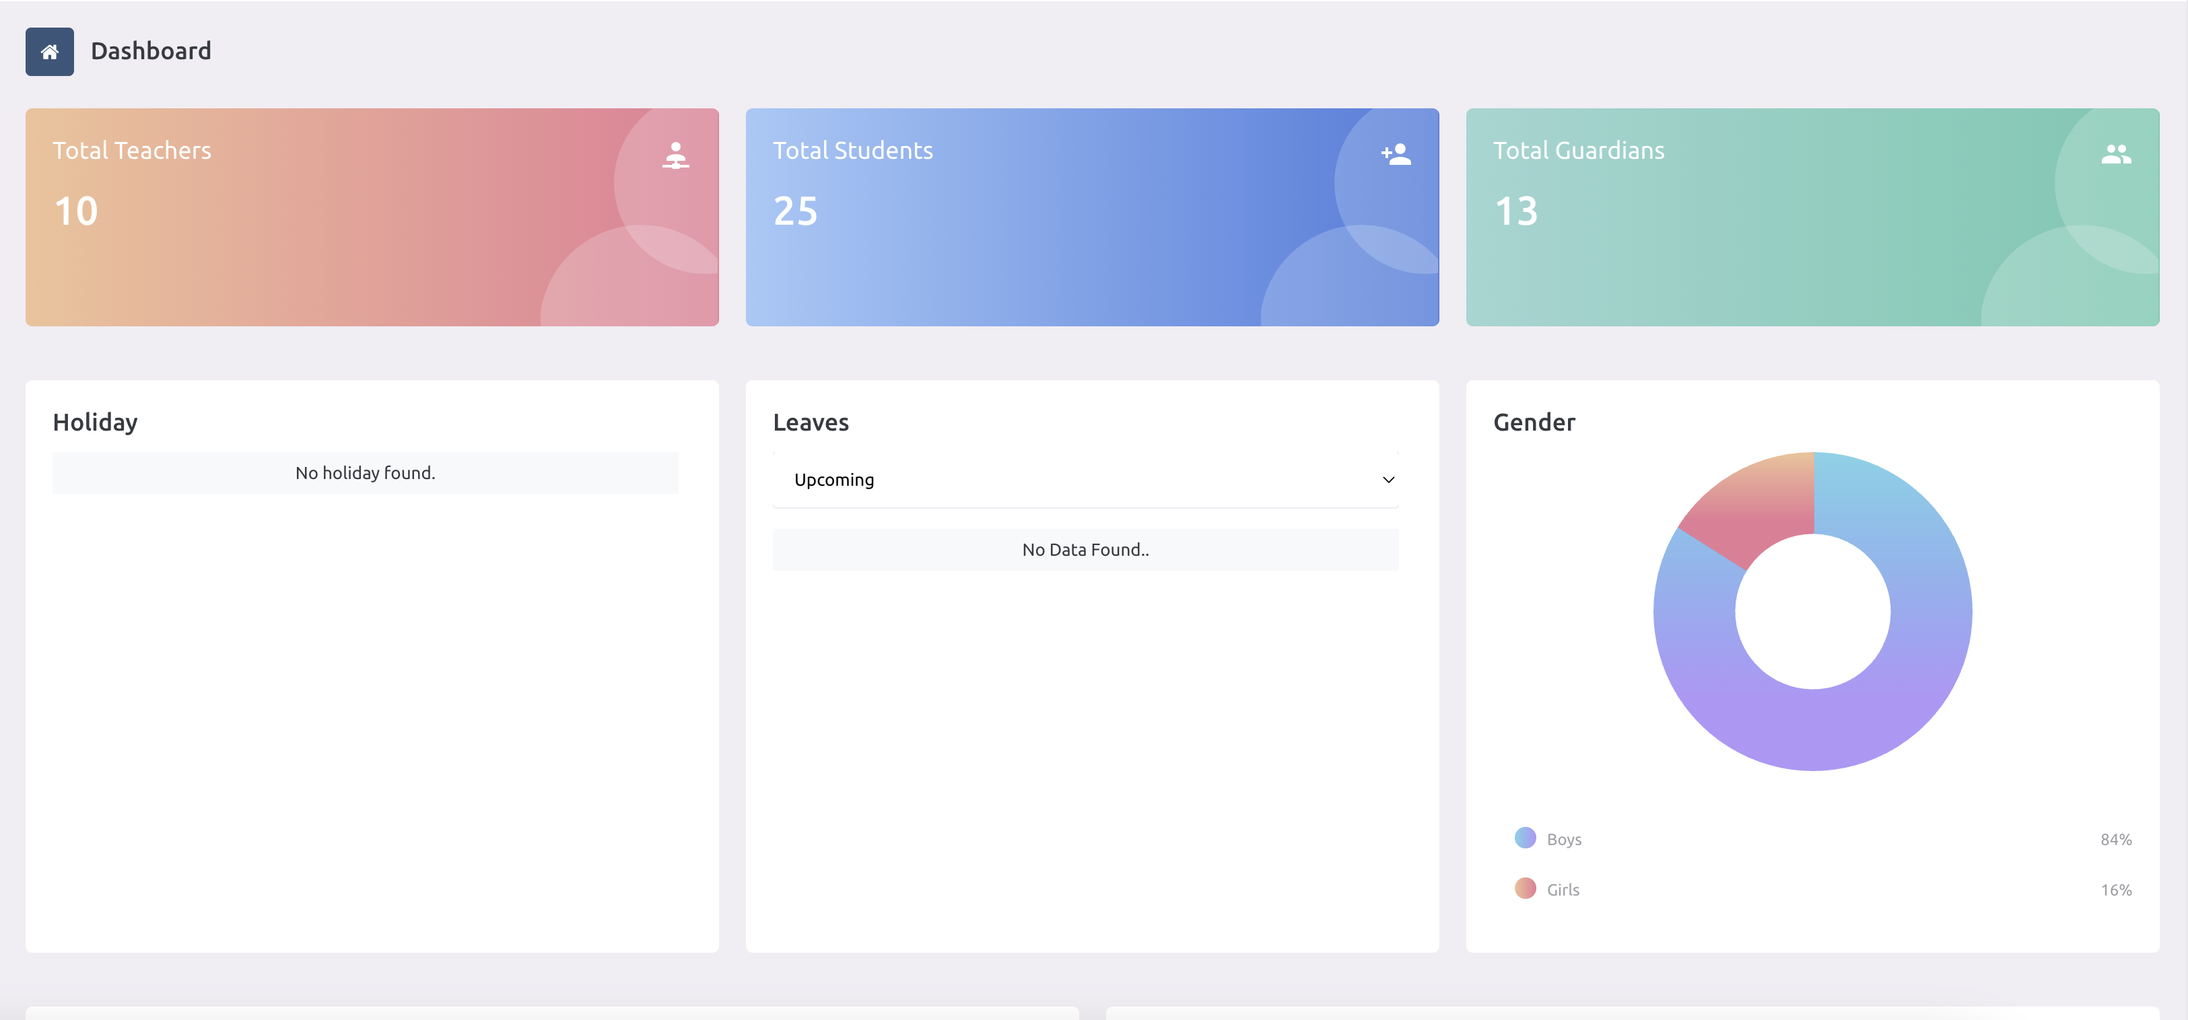
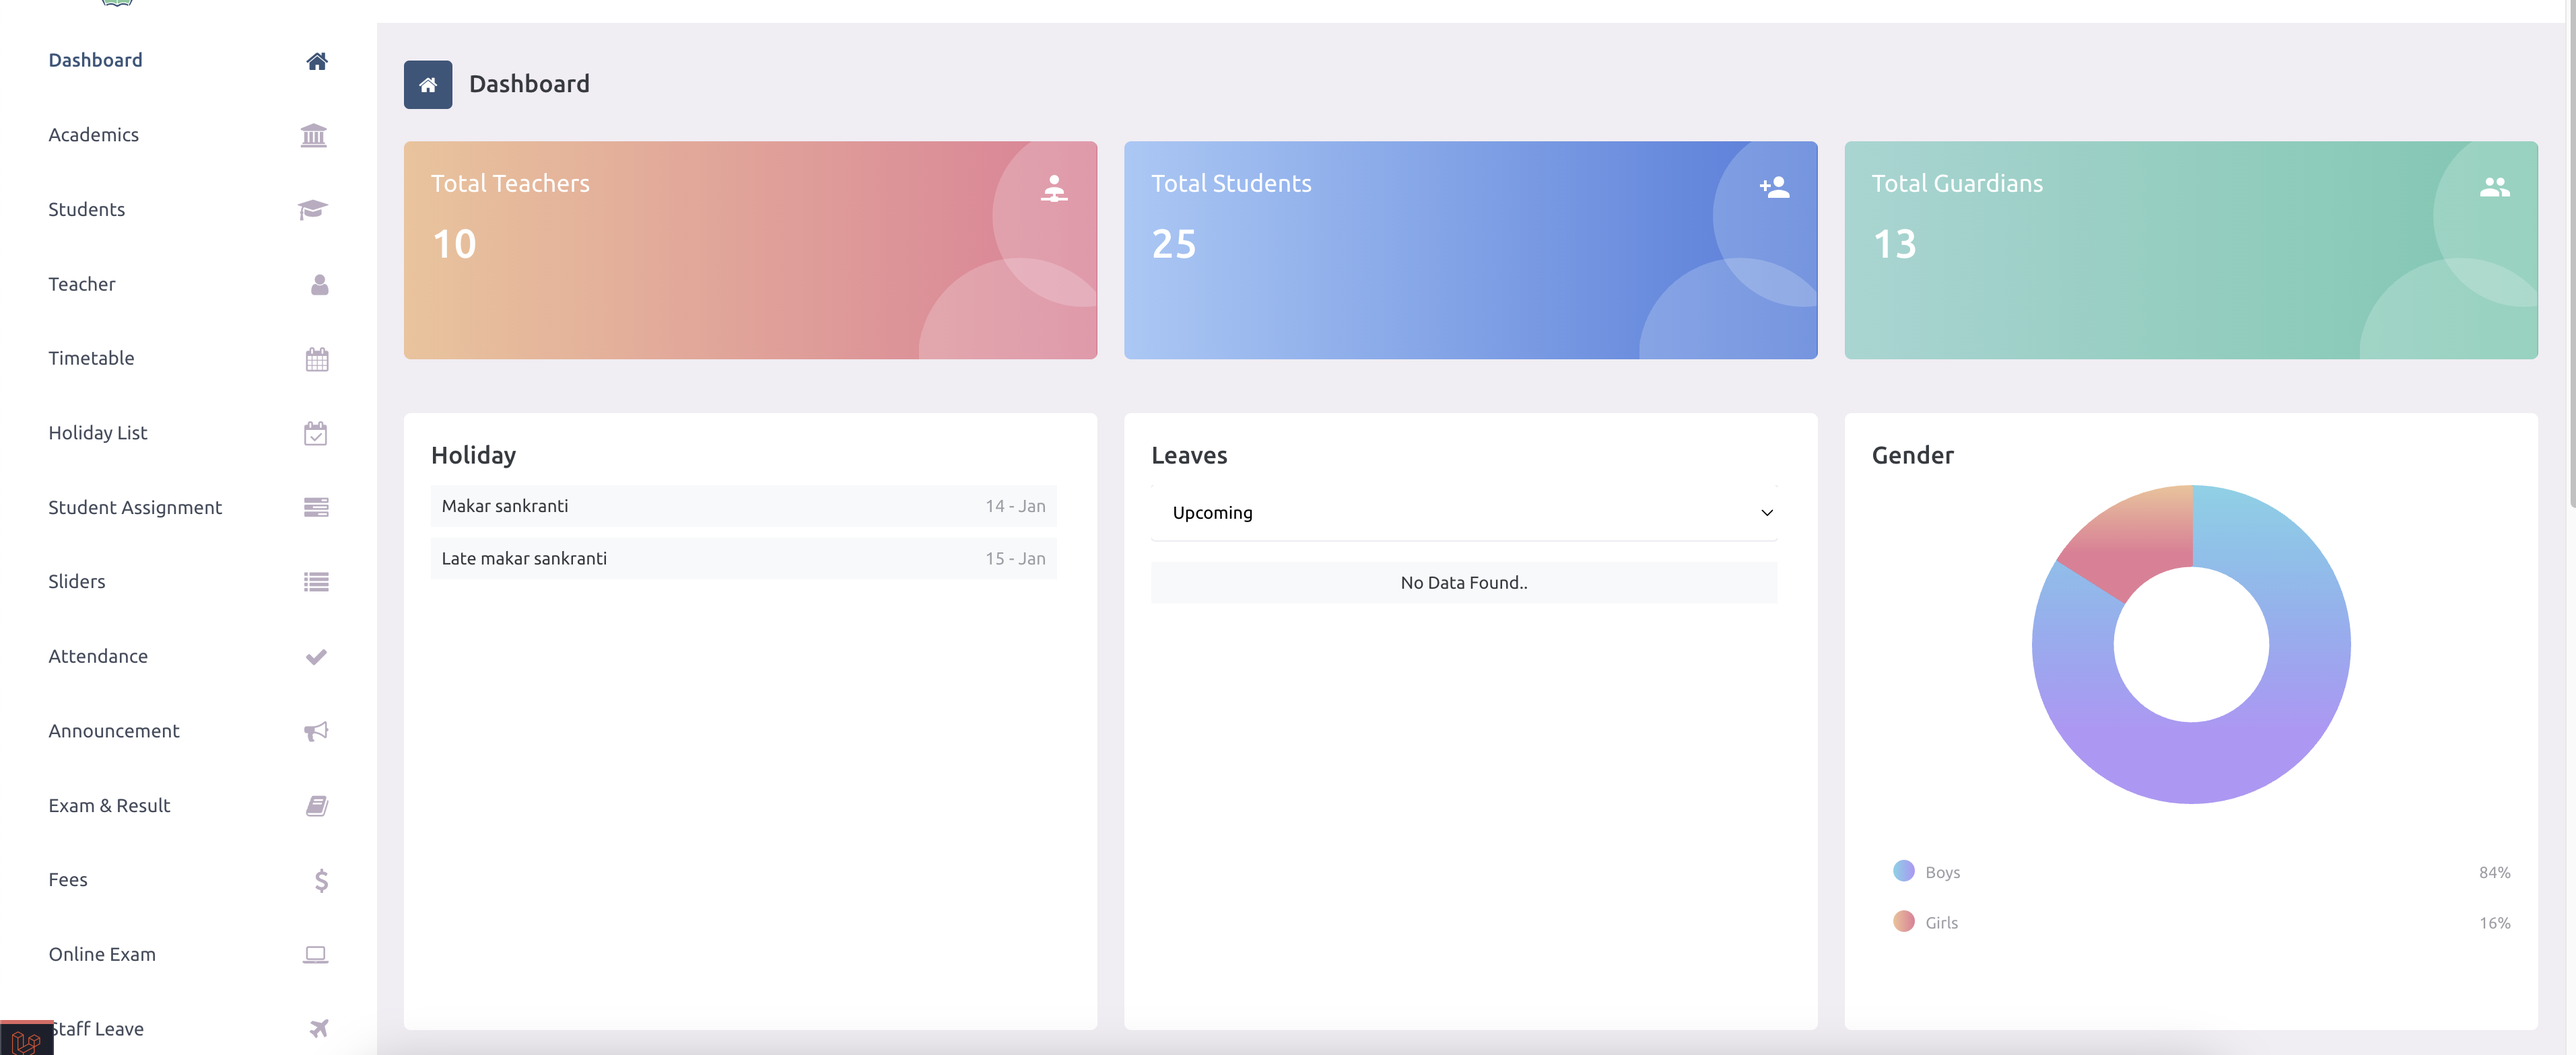
added details until timetable

diff --git a/index.html b/index.html
@@ -80,6 +80,15 @@
                                 <li><a href='#guardian'>Guardian</a></li>
                             </ul>
                         </li>
+                        <li>
+                            <a href="#teachers">Teachers <span class="fa fa-arrow-right"></span></a>
+                        </li>
+                        <li class='sub-menu'><a>Timetable<i class='fa fa-caret-down right'></i></a>
+                            <ul>
+                                <li><a href='#createTimetable'>Create timetable </a></li>
+                                <li><a href='#teacherTimetable'>Teacher timetable</a></li>
+                            </ul>
+                        </li>
                     </ul>
                 </nav>
             </div>
@@ -183,6 +192,10 @@
                     <h2>Dashboard</h2>
                 </div>
                 <img src="images/dashboard.png" alt="e-School Saas" style="width: 100%;">
+                <br />
+                <br />
+
+                <img src="images/dashboard-2.png" alt="e-School Saas" style="width: 100%;">
                 <br />
                 <br />
 
@@ -409,9 +422,7 @@
                         </h2>
                     </li>
                 </ul>
-
                 <br>
-
                 <h1> Promote students </h1>
                 <br />
                 <img src="images/promote-students.png" alt="e-School Saas" style="width: 100%;">
@@ -426,65 +437,259 @@
                 </ul>
             </section>
 
-
-            <!-- Privacy policy  -->
-            <section class="section html-structure" id="privacyPolicy">
+            <!-- Assign roll number  -->
+            <section class="section html-structure" id="assignRollNumber">
                 <div class="sec-title">
                     <span class="icon fa fa-th-large"></span>
-                    <h2>Privacy policy</h2>
+                    <h2>Assign roll number</h2>
                 </div>
 
-                <img src="images/privacy-policy.png" alt="e-School Saas" style="width: 100%;">
+                <img src="images/change-roll-number.png" alt="e-School Saas" style="width: 100%;">
                 <br />
                 <br />
                 <ul>
                     <li>
                         <h2>
-                            Use this (your-admin-panelurl/page/privacy-policy) to apple app store and google play store
-                            at the time of deployment.
+                            School admin can change the roll number based on first name or last name of student.
+                        </h2>
+                    </li>
+                </ul>
+            </section>
+
+            <!-- Admission form fields   -->
+            <section class="section html-structure" id="admissionFormFields">
+                <div class="sec-title">
+                    <span class="icon fa fa-th-large"></span>
+                    <h2>Admission form fields</h2>
+                </div>
+                <img src="images/admission-form-fields.png" alt="e-School Saas" style="width: 100%;">
+                <br />
+                <br />
+                <ul>
+                    <li>
+                        <h2>
+                            School admin can add the extra fields here. Added fields will be reflected into
+                            student admission form.
+                        </h2>
+                    </li>
+                </ul>
+            </section>
+
+            <!-- Student admission  -->
+            <section class="section html-structure" id="studentsAdmission">
+                <div class="sec-title">
+                    <span class="icon fa fa-th-large"></span>
+                    <h2>Students admission</h2>
+                </div>
+                <img src="images/student-admission.png" alt="e-School Saas" style="width: 100%;">
+                <br />
+                <br />
+                <img src="images/student-admission-2.png" alt="e-School Saas" style="width: 100%;">
+                <br />
+                <br />
+                <ul>
+                    <li>
+                        <h2>
+                            If school has any active package at the time of adding student then school admin can change
+                            the status of student (active or de-active). If school don't have package then status of the
+                            student will be consider as de-active by default.
+                        </h2>
+                    </li>
+                    <br>
+                    <li>
+                        <h2>
+                            At the time of adding new student, school admin can search the guardian by email and assign
+                            to the newly added student. If there is no guardian with the searched email then school
+                            admin can create the new guardian along with student.
+                        </h2>
+                    </li>
+                </ul>
+            </section>
+
+            <!-- Student details  -->
+            <section class="section html-structure" id="studentDetails">
+                <div class="sec-title">
+                    <span class="icon fa fa-th-large"></span>
+                    <h2>Student details </h2>
+                </div>
+
+                <img src="images/list-students.png" alt="e-School Saas" style="width: 100%;">
+                <br />
+                <br />
+                <ul>
+                    <li>
+                        <h2>
+                            School admin can view all the students by class-section and session year vise.
+                        </h2>
+                    </li>
+                    <br />
+                    <li>
+                        <h2>
+                            School admin can only activate students if school has any active package. Once student is
+                            activated it will added into the bill.
+                        </h2>
+                    </li>
+                    <br />
+                    <li>
+                        <h2>
+                            School admin can update or delete the student. If school admin delete the student it will be
+                            removed permanently.
                         </h2>
                     </li>
                     <br />
                 </ul>
             </section>
 
-            <!-- Contact us -->
-            <section class="section html-structure" id="contactUs">
+            <!-- Student reset password  -->
+            <section class="section html-structure" id="studentsResetPassword">
                 <div class="sec-title">
                     <span class="icon fa fa-th-large"></span>
-                    <h2>Contact us</h2>
+                    <h2>Students reset password </h2>
                 </div>
 
-                <img src="images/contact-us.png" alt="e-School Saas" style="width: 100%;">
+                <img src="images/reset-password.png" alt="e-School Saas" style="width: 100%;">
+                <br />
+                <br />
+                <ul>
+                    <li>
+                        <h2>
+                            School admin can view all the reset password request and accept or reject it.
+                        </h2>
+                    </li>
+                    <br />
+                </ul>
+            </section>
+
+            <!--Bulk upload-->
+            <section class="section support" id="addBulkData">
+                <div class="sec-title">
+                    <span class="icon fa fa-support"></span>
+                    <h2>Add bulk student data</h2>
+                </div>
+
+                <br />
+                <img src="images/bulk-upload.png" alt="e-School Saas" style="width: 100%;">
+                <br />
+                <br />
+                <ul>
+                    <li>
+                        <h2>
+                            Please do not modify the dummy csv file content unless you want to do any modification.
+                        </h2>
+                    </li>
+                    <br />
+                </ul>
+
+            </section>
+
+
+            <!--Guardian-->
+            <section class="section support" id="guardian">
+                <div class="sec-title">
+                    <span class="icon fa fa-support"></span>
+                    <h2>Guardian</h2>
+                </div>
+
+                <br />
+                <img src="images/list-guardian.png" alt="e-School Saas" style="width: 100%;">
                 <br />
 
             </section>
 
-            <!-- About us -->
-            <section class="section html-structure" id="aboutUs">
+
+            <!--Teachers-->
+            <section class="section support" id="teachers">
                 <div class="sec-title">
-                    <span class="icon fa fa-th-large"></span>
-                    <h2>About us</h2>
+                    <span class="icon fa fa-support"></span>
+                    <h2>Teachers</h2>
                 </div>
 
-                <img src="images/about-us.png" alt="e-School Saas" style="width: 100%;">
+                <br />
+                <img src="images/create-teacher.png" alt="e-School Saas" style="width: 100%;">
                 <br />
 
+                <img src="images/list-teachers.png" alt="e-School Saas" style="width: 100%;">
+                <br />
+                <br />
 
+                <ul>
+                    <li>
+                        <h2>
+                            If school has any active package at the time of adding teacher then school admin can change
+                            the status of teacher (active or de-active). If school don't have package then status of the
+                            teacher will be consider as de-active by default.
+                        </h2>
+                    </li>
+                    <br />
+                    <li>
+                        <h2>
+                            School admin can only activate teachers if school has any active package. Once teacher is
+                            activated it will added into the bill.
+                        </h2>
+                    </li>
+                    <br />
+                    <li>
+                        <h2>
+                            School admin can update or delete the teacher. If school admin delete the teacher it will be
+                            removed permanently. School admin need to delete other data related to teacher before
+                            deleting teacher.
+                        </h2>
+                    </li>
+                    <br />
+                </ul>
 
             </section>
 
-            <!-- Terms and conditions -->
-            <section class="section html-structure" id="termsAndConditions">
+            <!--List and create time-table-->
+            <section class="section support" id="createTimetable">
                 <div class="sec-title">
-                    <span class="icon fa fa-th-large"></span>
-                    <h2>Terms and conditions</h2>
+                    <span class="icon fa fa-support"></span>
+                    <h2>Create timetable</h2>
                 </div>
 
-                <img src="images/terms-and-conditions.png" alt="e-School Saas" style="width: 100%;">
+                <br />
+                <img src="images/list-timetable.png" alt="e-School Saas" style="width: 100%;">
                 <br />
 
+                <img src="images/create-timetable.png" alt="e-School Saas" style="width: 100%;">
+                <br />
+                <br />
+                <ul>
+                    <li>
+                        <h2>
+                            Starting time and ending time of the lecture will be same for every class.
+                        </h2>
+                    </li>
+                    <br />
+                </ul>
             </section>
+
+            <!--List and create time-table-->
+            <section class="section support" id="teacherTimetable">
+                <div class="sec-title">
+                    <span class="icon fa fa-support"></span>
+                    <h2>Teacher timetable</h2>
+                </div>
+
+                <br />
+                <img src="images/teachers-timetable.png" alt="e-School Saas" style="width: 100%;">
+                <br />
+
+                <img src="images/teacher-timetable-view.png" alt="e-School Saas" style="width: 100%;">
+                <br />
+                <br />
+                <ul>
+                    <li>
+                        <h2>
+                            School admin can view all the teacher's timetable here. School admin can not modify the
+                            timetable related data here.
+                        </h2>
+                    </li>
+                    <br />
+                </ul>
+            </section>
+
+
 
 
 

diff --git a/css/style.css b/css/style.css
@@ -576,3 +576,13 @@ p {
     border-radius: 8px;
     text-align: center;
 }
+
+img {
+    border: 2px solid rgba(1, 1, 1, 0.267);
+    border-radius: 10px;
+    margin-top: 15px;
+}
+
+h2 {
+    font-weight: 600;
+}
